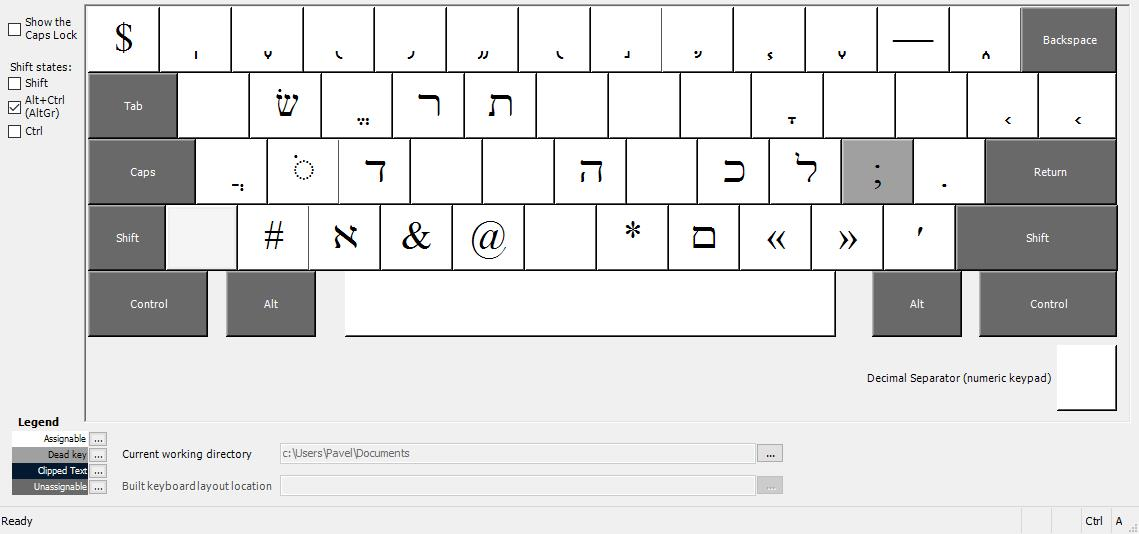
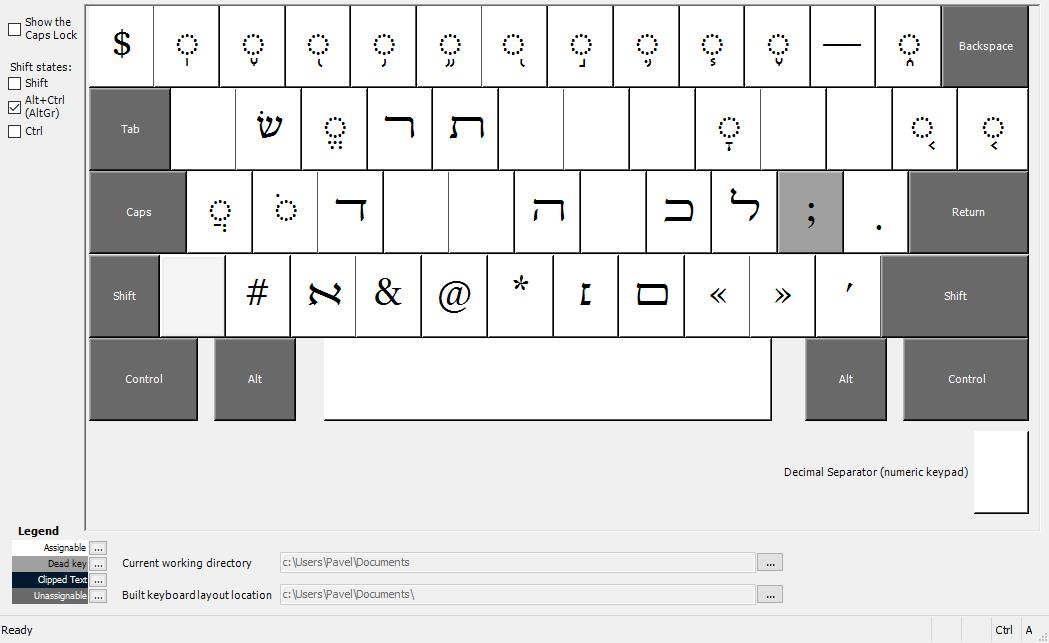
alternative ayin and inverted nun

diff --git a/README.md b/README.md
@@ -15,10 +15,12 @@ The purpose of this project is to develop Windows keyboard which maps Hebrew let
     - y for ayin
     - w/W for sin/shin
 - specialities
-    - v for waw as "w" is  pronounced close to "v" in some languages
+    - v for waw as "w" is pronounced close to "v" in some languages
     - T for tet (tav is used more frequently)
     - H for chet
+    - Shift+y for alternative ayin
     - AltGr (Ctrl+Alt)+s for sin *without* dot
+    - AltGr (Ctrl+Alt)+n for inverted nun
     - f is not used
 - the final forms are written with Shift
 - the wide forms are written with AltGr (Ctrl+Alt) including final mem
@@ -37,9 +39,9 @@ The purpose of this project is to develop Windows keyboard which maps Hebrew let
 |k|כ chaf/kaf|ך final|wide ﬤ|
 |l|ל lamed||wide ﬥ|
 |m|מ mem|ם final|wide ﬦ final|
-|n|נ nun|ן final||
+|n|נ nun|ן final|׆ inverted|
 |s|ס samech|ש sin/shin (without dot)||
-|y*|ע (ayin)|||
+|y*|ע ayin|ﬠ alternative||
 |p|פ fe/pe|ף final||
 |c|צ tsade|ץ final||
 |q|ק qof|||
@@ -122,7 +124,7 @@ Differences are marked with (*).
 | e | ◌ֶ &nbsp;segol| ◌ֵ &nbsp;tsere| ◌ֱ &nbsp;hataf segol|  |
 | r | ר resh|  | ﬧ wide resh|  |
 | t | ת tav| ט tet| ﬨ wide tav|  |
-| y | ע ayin|  |  |  |
+| y | ע ayin| ﬠ alternative ayin|  |  |
 | u | ◌ֻ &nbsp;kubuts| וּ◌ &nbsp;shuruk|  |  |
 | i | ◌ִ &nbsp;hiriq| י◌ִ &nbsp;hiriq yod|  |  |
 | o | ◌ֹ &nbsp;holam| וֹ◌ &nbsp;holam male| ◌ׇ &nbsp;kamats hatuf | ◌ֺ &nbsp;holam haser for waw|
@@ -145,8 +147,8 @@ Differences are marked with (*).
 | x | א aleph|  | ﬡ wide aleph|  |
 | c | צ tsade| ץ final tsade| & ampersand |  |
 | v | ו  waw|  | @ at sign| (\*) left-to-right *200e*|
-| b | ב  vet/bet|  |  | (\*) right-to-left *200f*|
-| n | נ nun| ן final nun| \* asterisk|  (\*) zero width non-joiner *200c*|
+| b | ב  vet/bet|  | (\*) \* asterisk| (\*) right-to-left *200f*|
+| n | נ nun| ן final nun| ׆ inverted nun|  (\*) zero width non-joiner *200c*|
 | m | מ mem| ם final mem| ﬦ wide final mem| zero width joiner *200d*|
 | , | , | < | « guillemets left| ◌̇ &nbsp;masora dot above *0307*|
 | . | ּ &nbsp;dagesh/mappiq dead key| > | » guillemets right| ◌̈ &nbsp;thousands *0308*|
